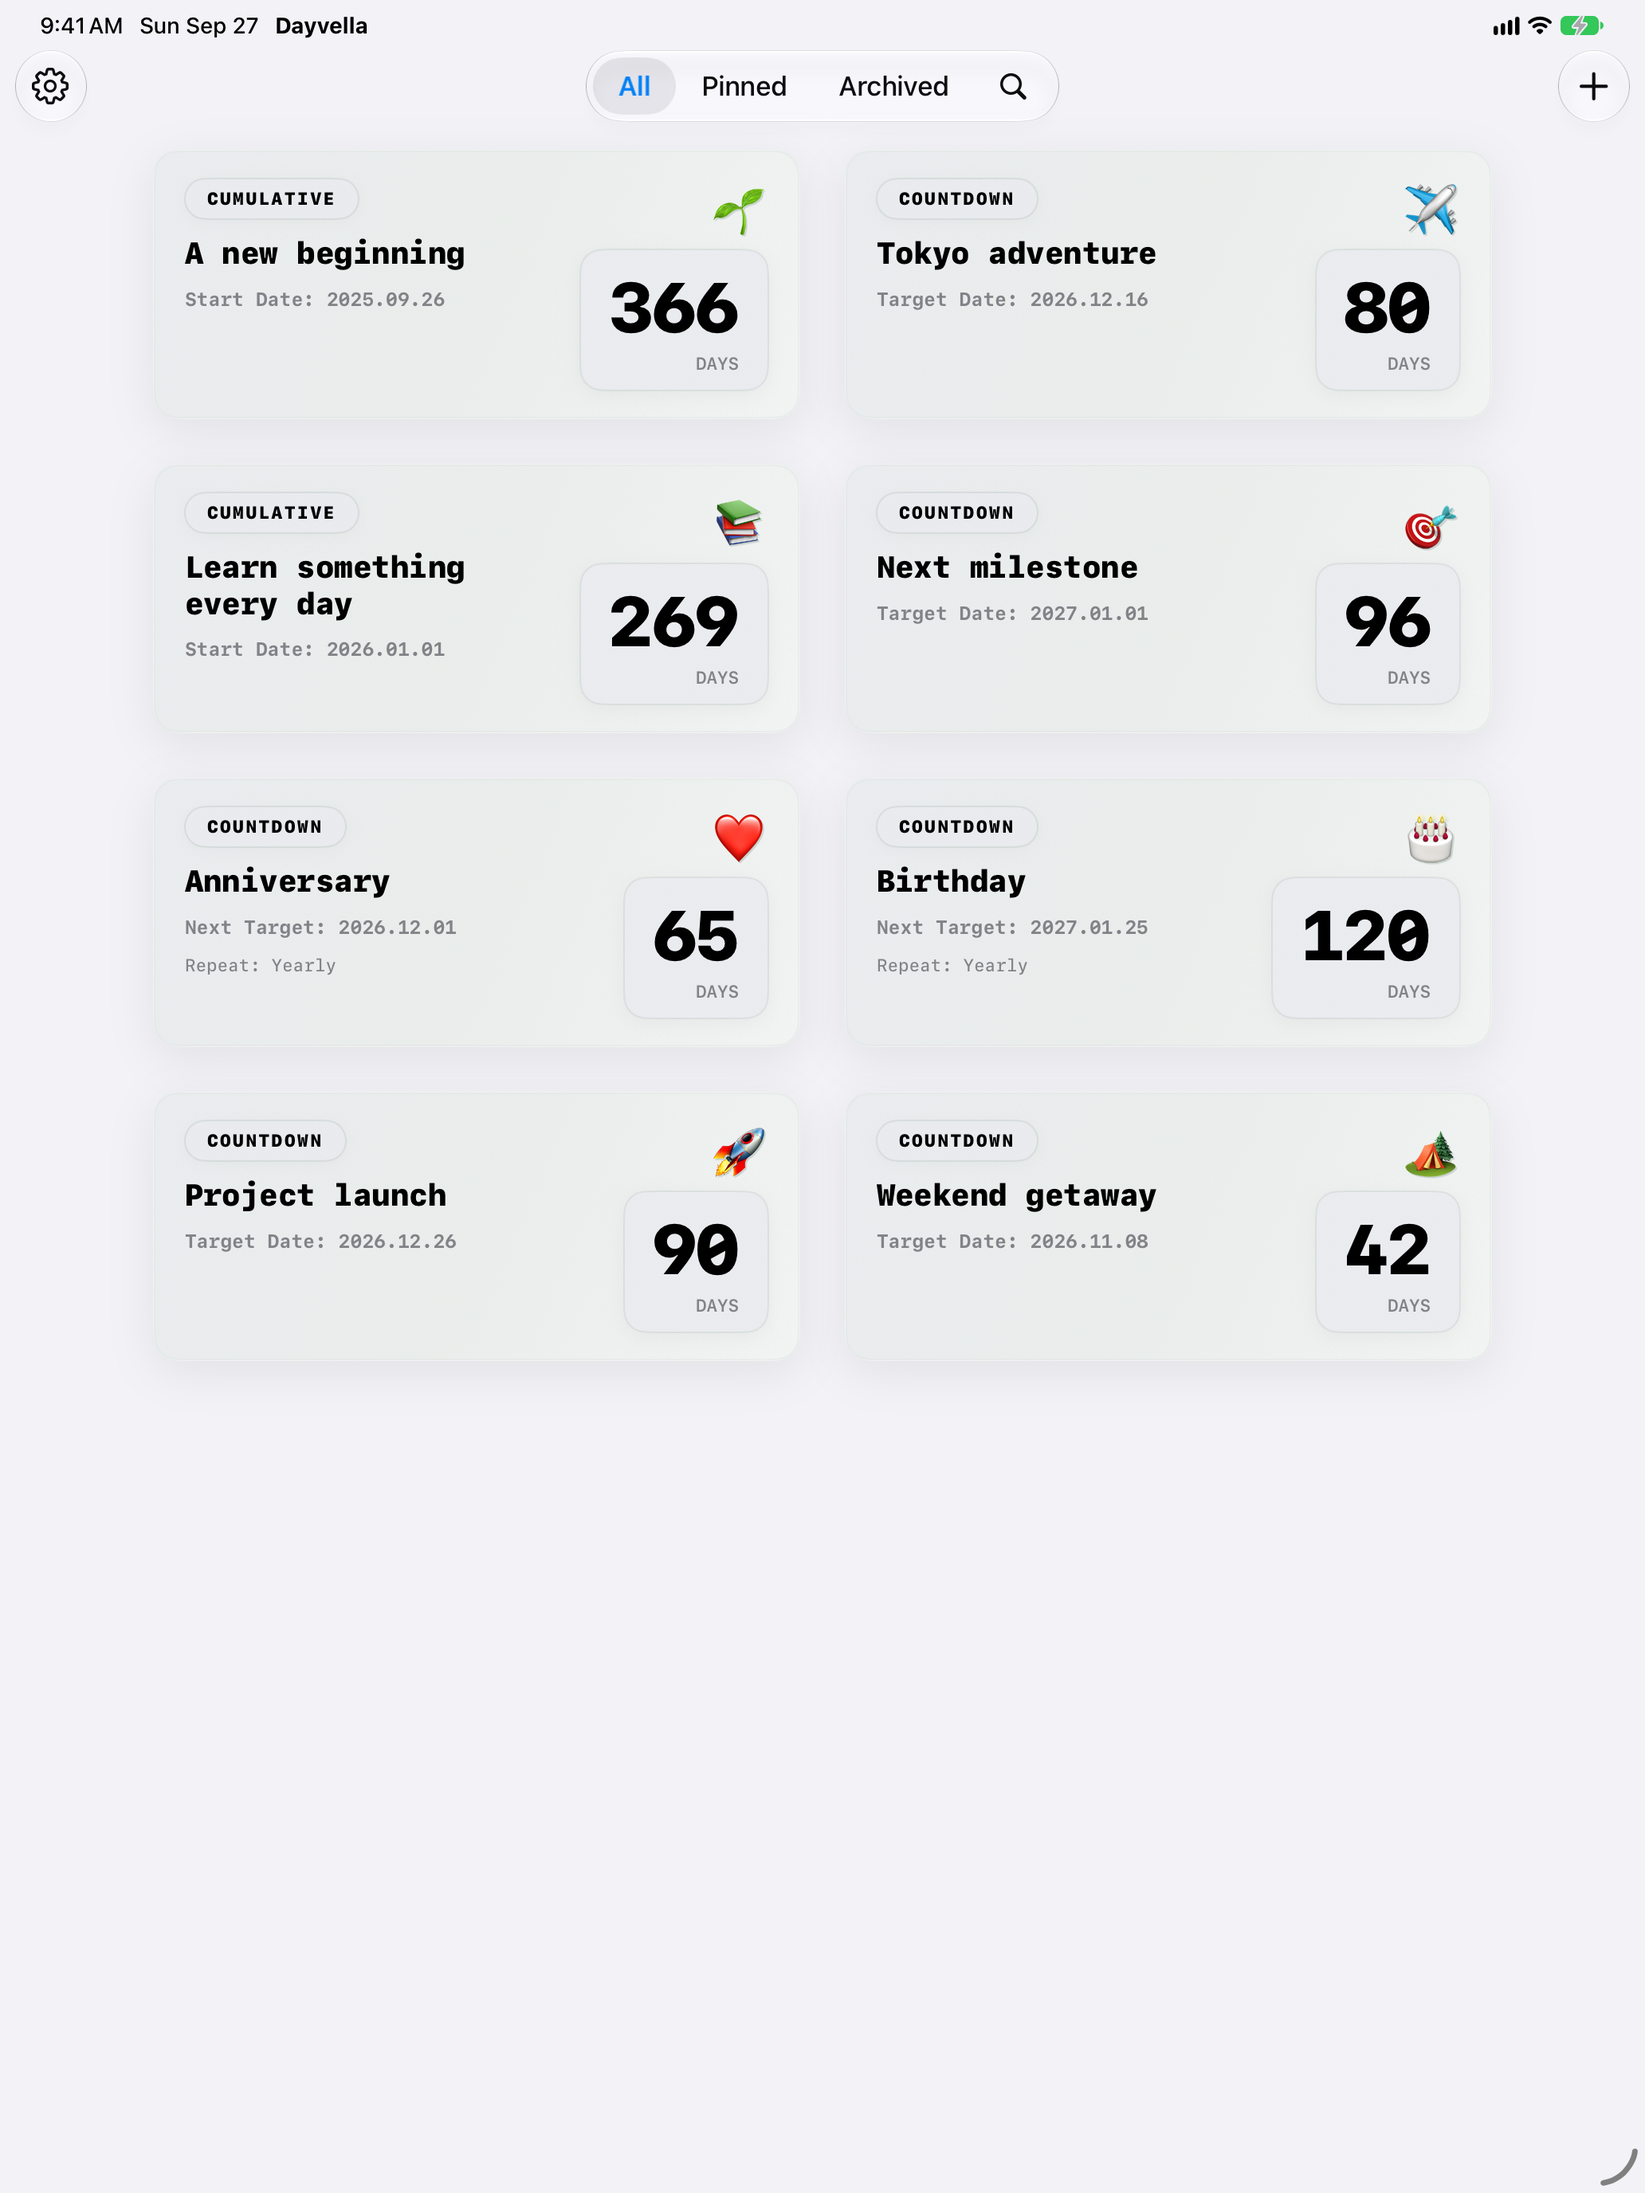
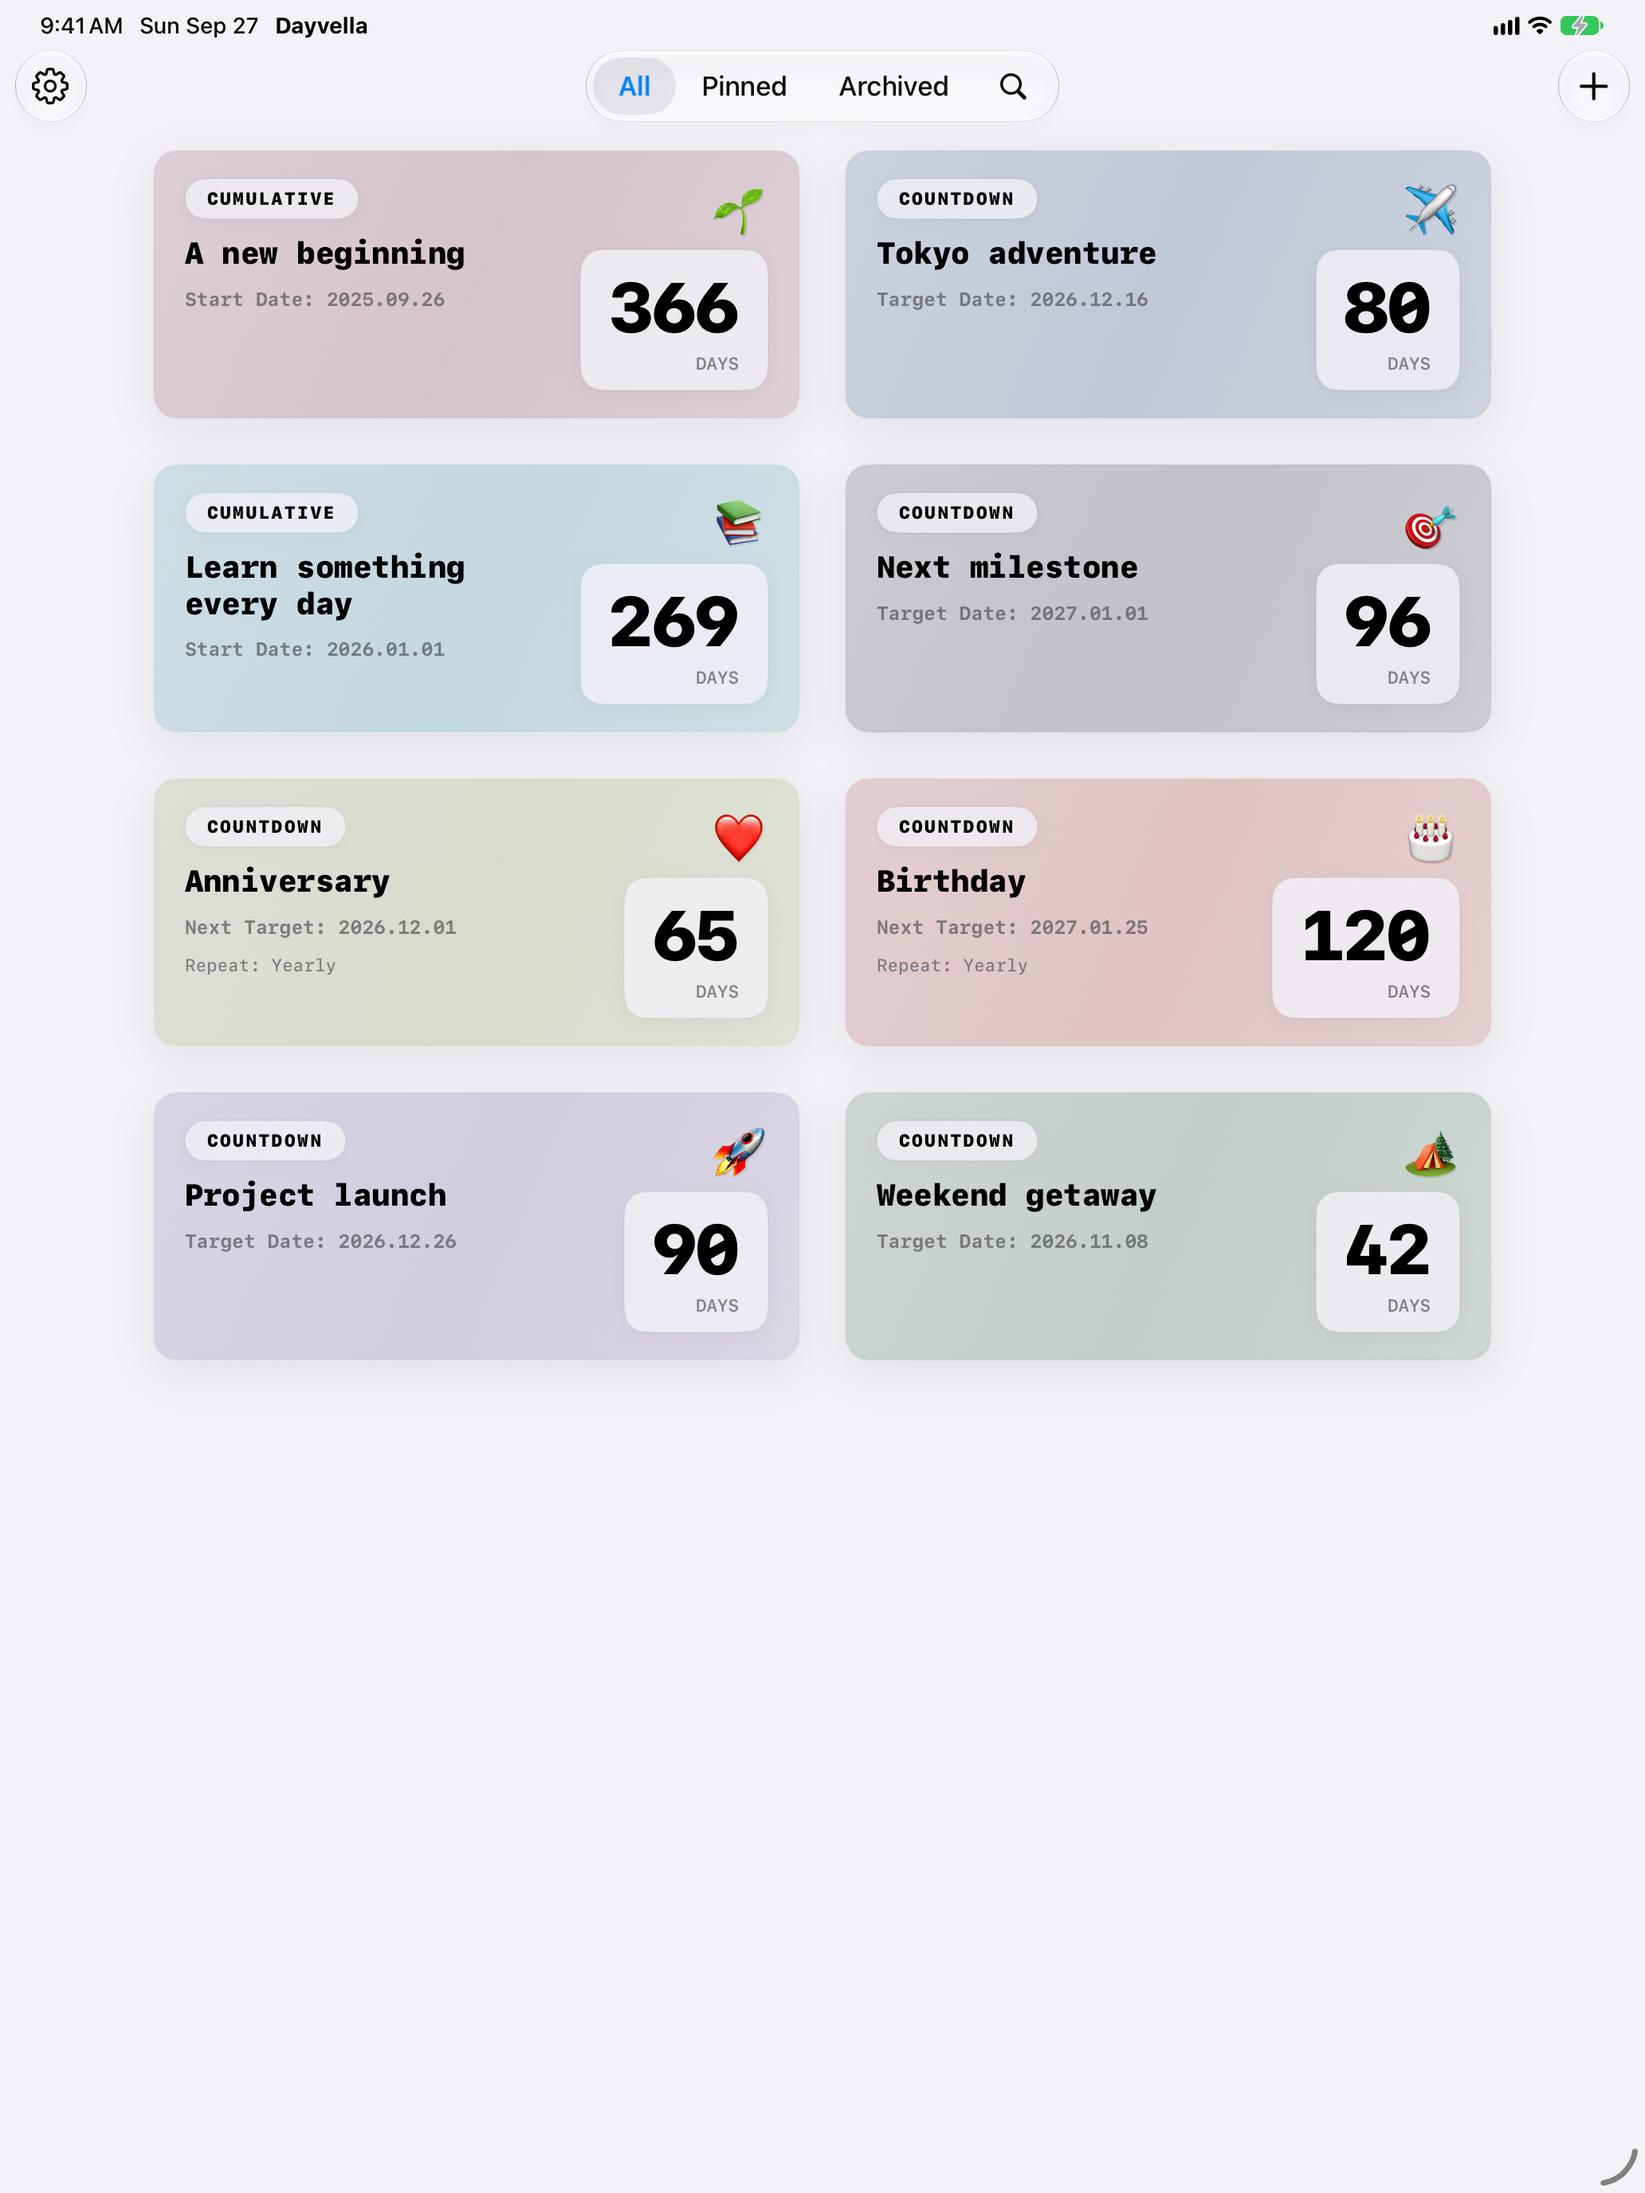
restore distinct card colors

diff --git a/Dayvella/DayvellaApp.swift b/Dayvella/DayvellaApp.swift
@@ -9,7 +9,33 @@ struct DayvellaApp: App {
         let store = EntryStore()
         #if DEBUG
         if ProcessInfo.processInfo.arguments.contains("-SeedStoreScreenshots"), store.allItems().isEmpty {
-            let entries = EntryTemplate.allCases.map { $0.draft().makeEntry(existing: nil) }
+            let calendar = Calendar.current
+            let today = DayCounter.startOfDay(.now, in: .current)
+            let samples: [EntryDraft] = [
+                EntryDraft(title: "Weekend getaway", entryType: .countDown,
+                           targetDate: calendar.date(byAdding: .day, value: 42, to: today), iconEmoji: "🏕"),
+                EntryDraft(title: "Project launch", entryType: .countDown,
+                           targetDate: calendar.date(byAdding: .day, value: 90, to: today), iconEmoji: "🚀"),
+                EntryDraft(title: "Birthday", entryType: .countDown,
+                           targetDate: calendar.date(byAdding: .day, value: 120, to: today),
+                           repeatRule: .yearly, iconEmoji: "🎂"),
+                EntryDraft(title: "Anniversary", entryType: .countDown,
+                           targetDate: calendar.date(byAdding: .day, value: 65, to: today),
+                           repeatRule: .yearly, iconEmoji: "❤"),
+                EntryDraft(title: "Next milestone", entryType: .countDown,
+                           targetDate: calendar.date(byAdding: .day, value: 96, to: today), iconEmoji: "🎯"),
+                EntryDraft(title: "Learn something every day", entryType: .countUp,
+                           startDate: calendar.date(byAdding: .day, value: -269, to: today), iconEmoji: "📚"),
+                EntryDraft(title: "Tokyo adventure", entryType: .countDown,
+                           targetDate: calendar.date(byAdding: .day, value: 80, to: today), iconEmoji: "✈"),
+                EntryDraft(title: "A new beginning", entryType: .countUp,
+                           startDate: calendar.date(byAdding: .day, value: -366, to: today), iconEmoji: "🌱")
+            ]
+            let entries = samples.enumerated().map { index, sample in
+                var draft = sample
+                draft.colorHex = TrendingCardPalettes.all[index % TrendingCardPalettes.all.count].primaryHex
+                return draft.makeEntry(existing: nil)
+            }
             store.importEntries(entries)
         }
         #endif

diff --git a/Dayvella/Views/EntryCardView.swift b/Dayvella/Views/EntryCardView.swift
@@ -181,30 +181,30 @@ private struct CardPalette {
         let raisedSurface = UIColor.tertiarySystemGroupedBackground.resolvedColor(with: traits)
 
         if colorScheme == .dark {
-            let middleColor = uiAccent.blended(withFraction: 0.82, of: groupedSurface)
-            let topColor = middleColor.blended(withFraction: 0.38, of: raisedSurface)
-            let bottomColor = middleColor.blended(withFraction: 0.12, of: .black)
+            let middleColor = uiAccent.blended(withFraction: 0.48, of: groupedSurface)
+            let topColor = middleColor.blended(withFraction: 0.18, of: raisedSurface)
+            let bottomColor = middleColor.blended(withFraction: 0.20, of: .black)
 
             top = Color(topColor)
             middle = Color(middleColor)
             bottom = Color(bottomColor)
-            glowStart = accent.opacity(0.08)
+            glowStart = accent.opacity(0.12)
             glowEnd = .clear
             innerStroke = Color.white.opacity(0.07)
-            frame = accent.opacity(0.22)
+            frame = accent.opacity(0.46)
             shadow = Color.black.opacity(0.24)
         } else {
-            let middleColor = uiAccent.blended(withFraction: 0.86, of: groupedSurface)
-            let topColor = middleColor.blended(withFraction: 0.72, of: raisedSurface)
-            let bottomColor = middleColor.blended(withFraction: 0.28, of: groupedSurface)
+            let middleColor = uiAccent.blended(withFraction: 0.58, of: groupedSurface)
+            let topColor = middleColor.blended(withFraction: 0.35, of: raisedSurface)
+            let bottomColor = middleColor.blended(withFraction: 0.15, of: groupedSurface)
 
             top = Color(topColor)
             middle = Color(middleColor)
             bottom = Color(bottomColor)
-            glowStart = accent.opacity(0.055)
+            glowStart = accent.opacity(0.09)
             glowEnd = .clear
             innerStroke = Color.white.opacity(0.72)
-            frame = accent.opacity(0.14)
+            frame = accent.opacity(0.28)
             shadow = Color.black.opacity(0.07)
         }
 
